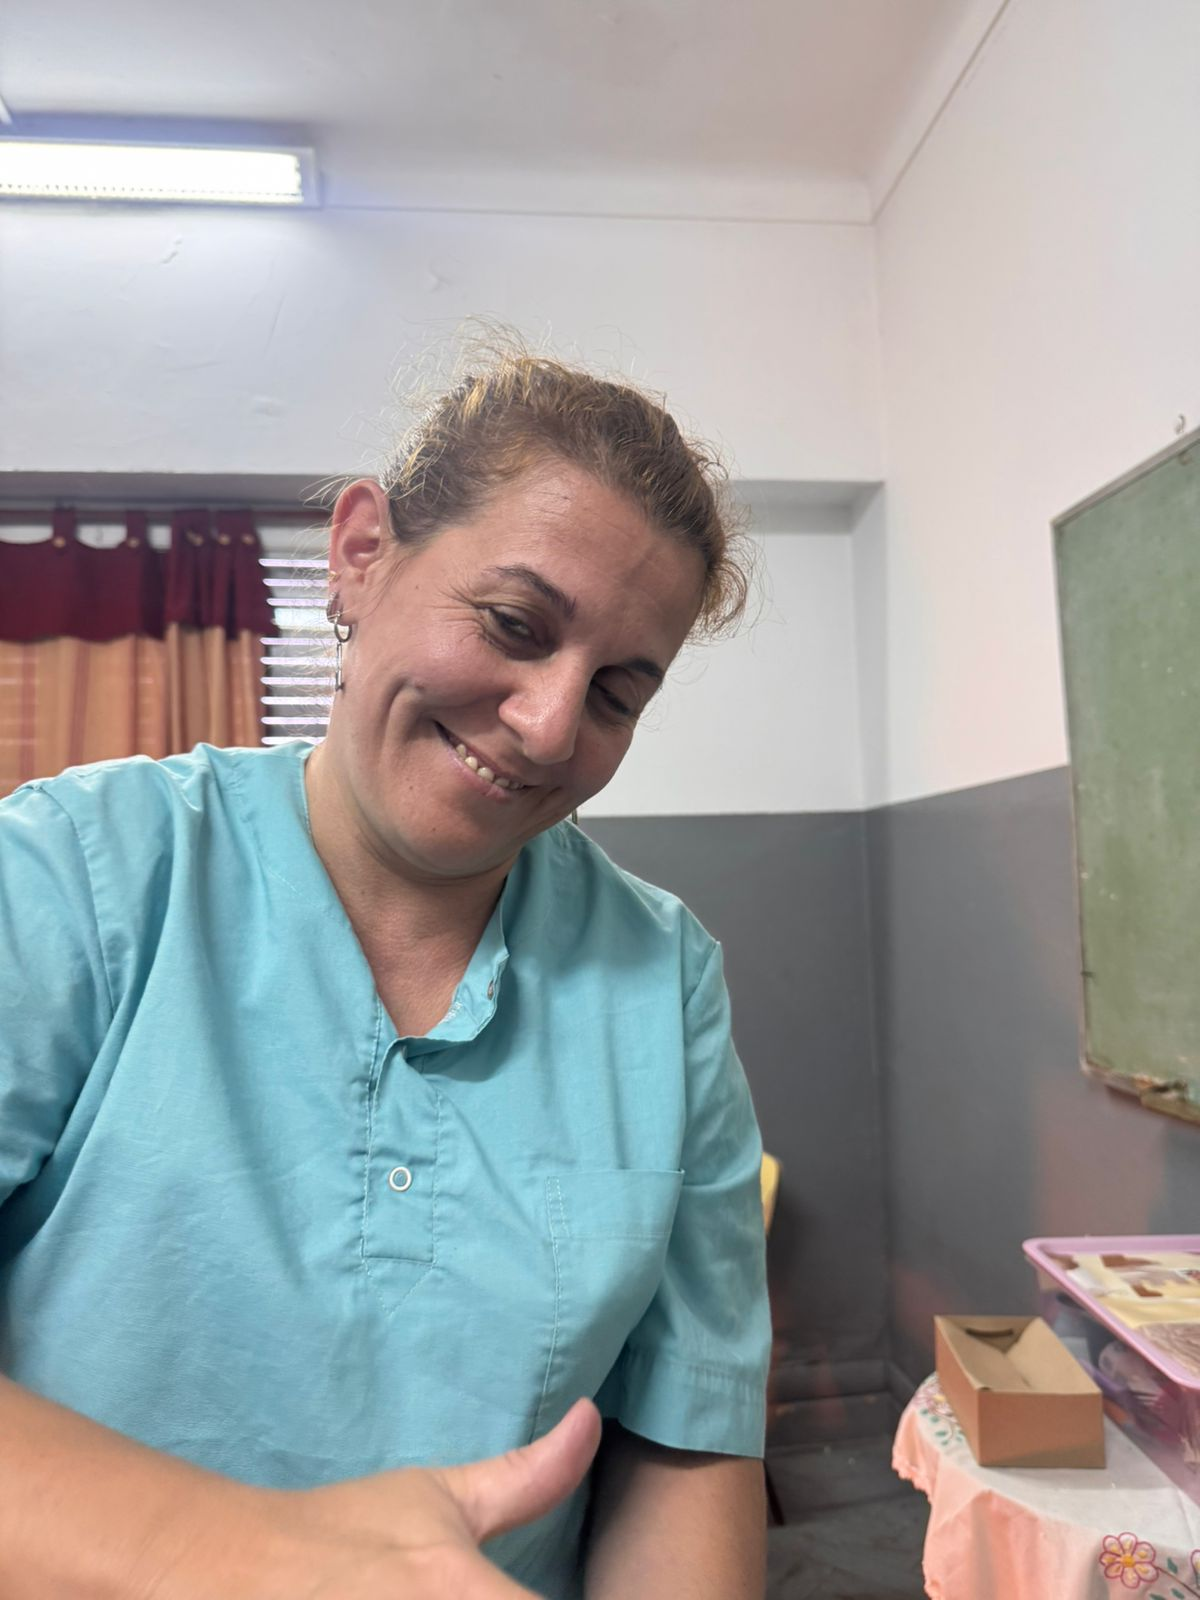
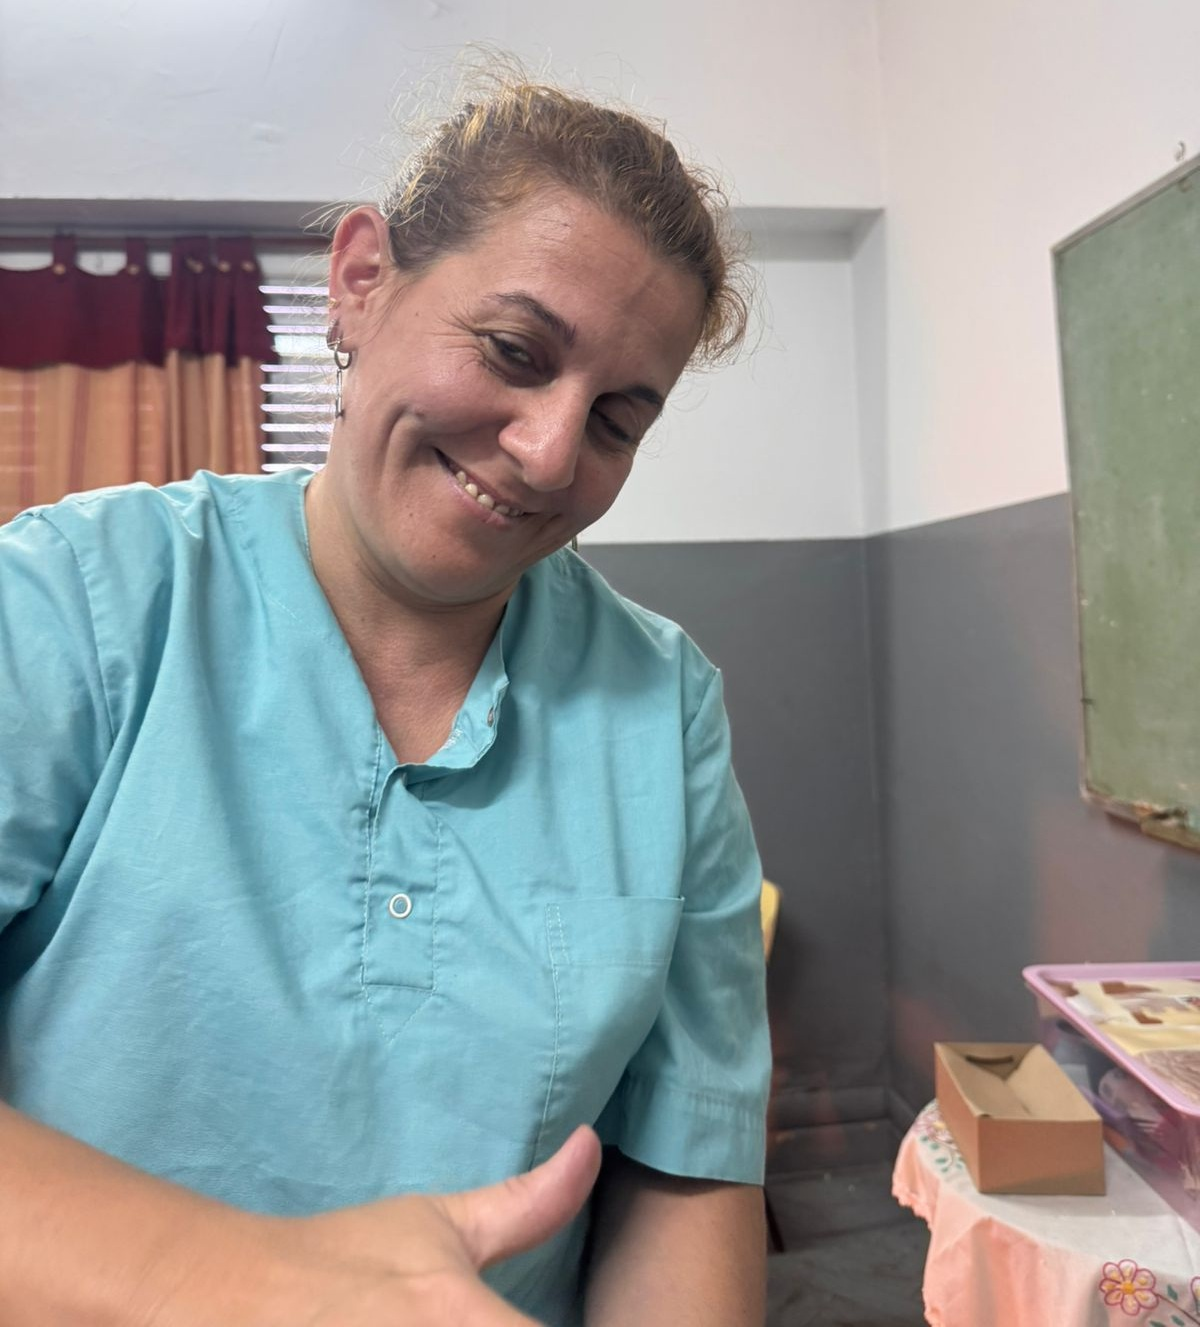
ajustes de imagen

diff --git a/index.html b/index.html
@@ -26,7 +26,7 @@
     <div class="hero-image">
       <figure class="hero-image-frame">
         <img
-          src="assets/img/kinesiologia-caseros-ciolli-ceccato.jpeg"
+          src="assets/img/kinesiologia-en-caseros.jpeg"
           alt="Foto de la kinesióloga atendiendo"
           width="800"
           height="600"
